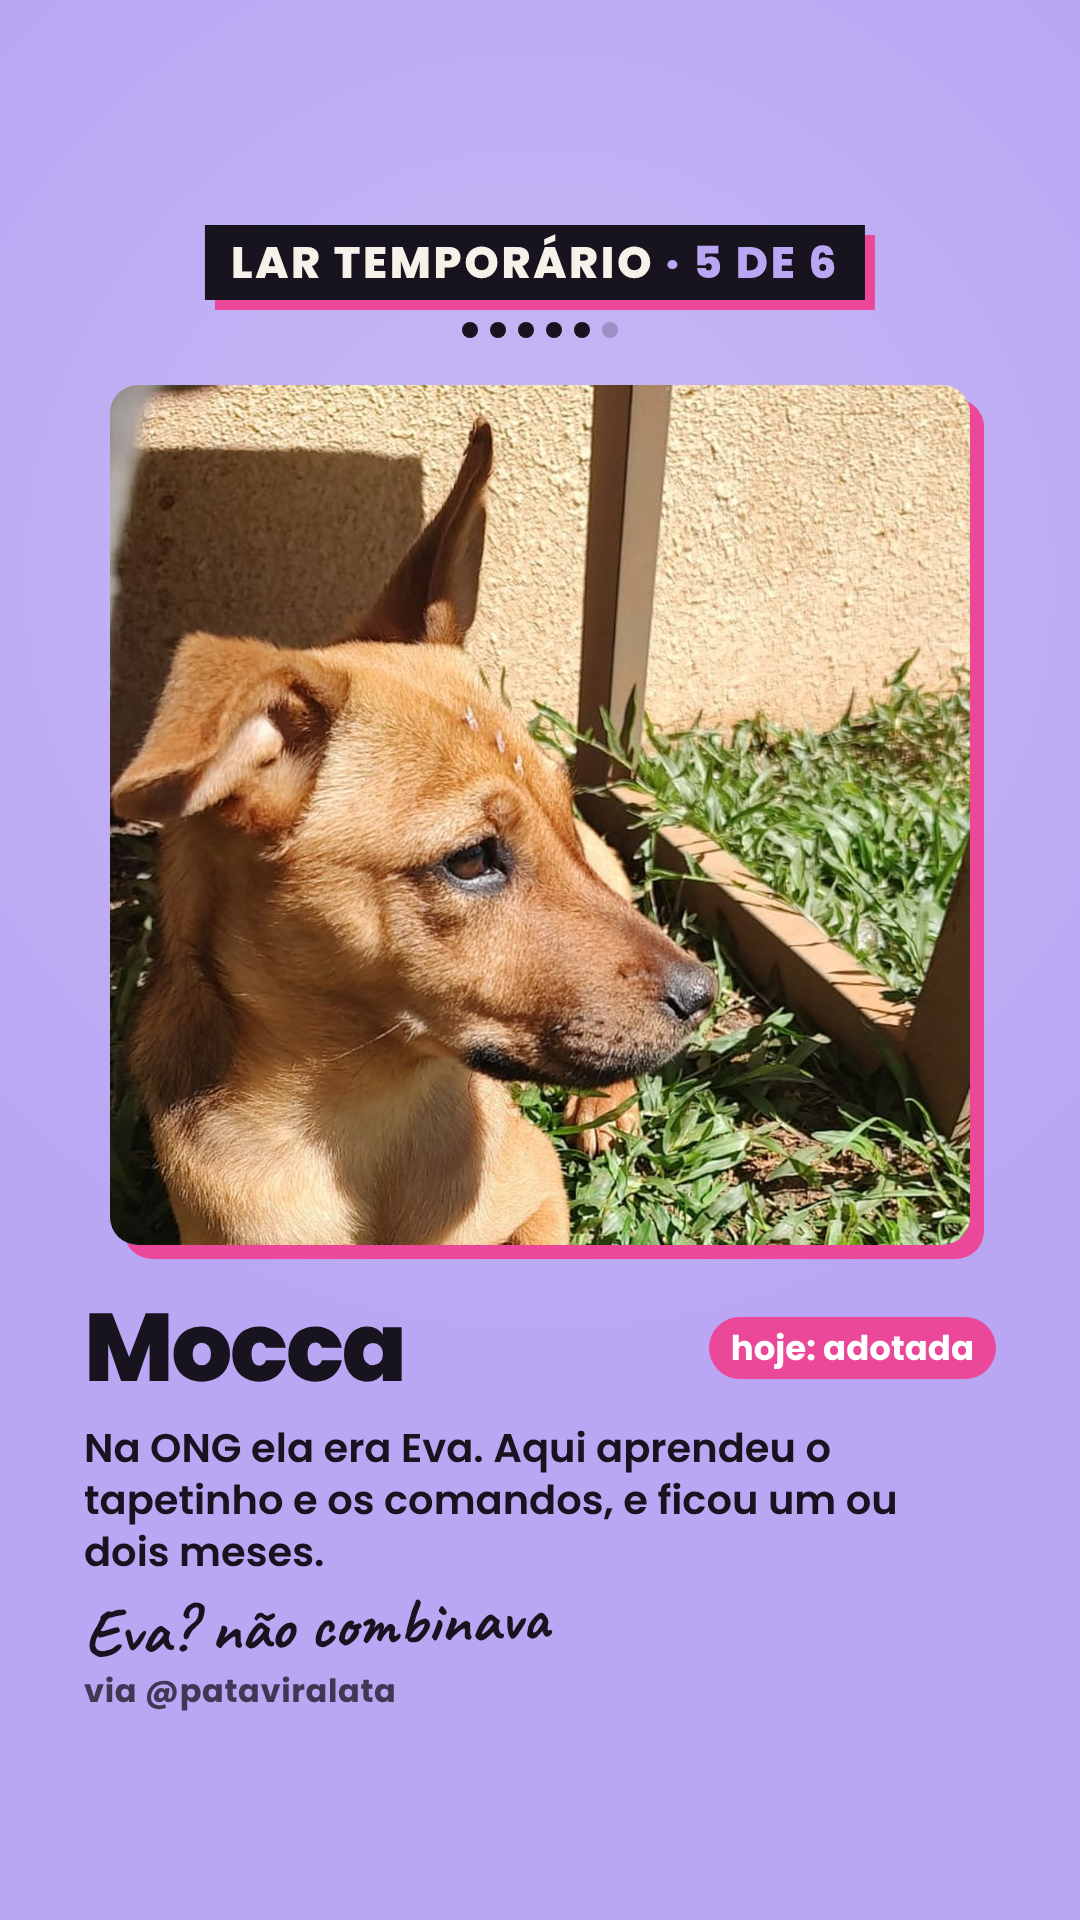
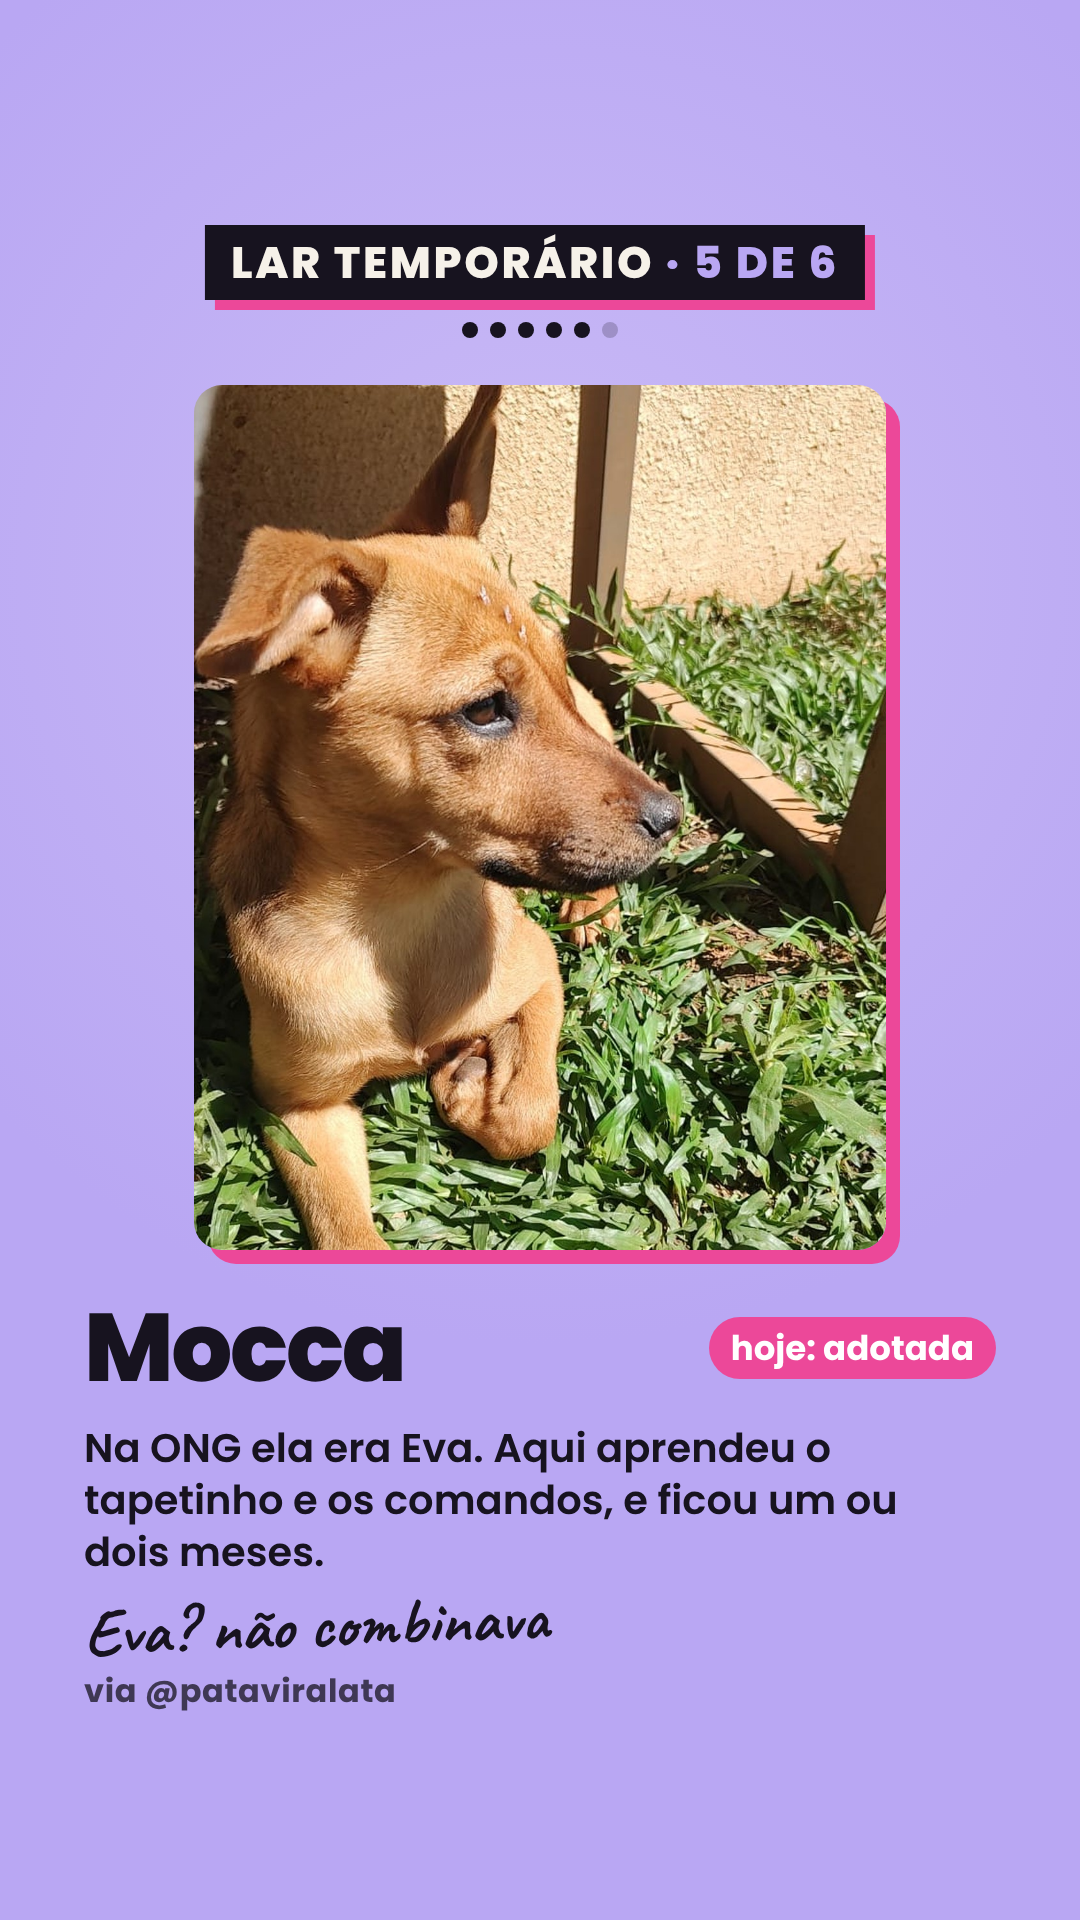
Stories dos lares temporários: "por volta de um ano", fundo do Heitor menos desfocado, Mocca com o peito e as patas, filhotes da Camélia
Claude-Session: https://claude.ai/code/session_01E463xHzMa5F2TJ5U3fhtJq

diff --git a/templates/lar-temporario/lar-temporario.html b/templates/lar-temporario/lar-temporario.html
@@ -30,6 +30,7 @@ body{background:#000;font-family:P,sans-serif;-webkit-font-smoothing:antialiased
 .dots i.on{background:var(--ink)}
 .foto{position:absolute;left:110px;top:385px;width:860px;height:860px;object-fit:cover;border-radius:28px;
   box-shadow:14px 14px 0 var(--pink)}
+.foto.mocca{left:194px;width:692px;height:865px}
 .txt{position:absolute;left:84px;right:84px;top:1300px;bottom:210px;display:flex;flex-direction:column}
 .linha{display:flex;align-items:center;justify-content:space-between;gap:20px}
 .nome{font-weight:800;font-size:96px;line-height:1;letter-spacing:-.025em}
@@ -60,7 +61,7 @@ body{background:#000;font-family:P,sans-serif;-webkit-font-smoothing:antialiased
   <img class="foto" src="img/2.jpg" alt="">
   <div class="txt">
     <div class="linha"><div class="nome">Rocco</div><div class="hoje">hoje: continua Rocco</div></div>
-    <div class="info">Tinha uns 1 ano e nunca fez nada dentro de casa. Foi adotado em menos de um mês.</div>
+    <div class="info">Tinha por volta de um ano e nunca fez nada dentro de casa. Foi adotado em menos de um mês.</div>
     <div class="zoe">ele não gostava muito do Guilherme</div>
     <div class="ong">via @pataviralata</div>
   </div>
@@ -72,7 +73,7 @@ body{background:#000;font-family:P,sans-serif;-webkit-font-smoothing:antialiased
   <img class="foto" src="img/3.jpg" alt="">
   <div class="txt">
     <div class="linha"><div class="nome">Heitor</div><div class="hoje">hoje: adotado</div></div>
-    <div class="info">Tinha uns 1 ano. Agitado, mas nunca agressivo. Foi adotado em menos de um mês.</div>
+    <div class="info">Tinha por volta de um ano. Agitado, mas nunca agressivo. Foi adotado em menos de um mês.</div>
     <div class="zoe">se ainda é Heitor, ninguém sabe</div>
     <div class="ong">via @pataviralata</div>
   </div>
@@ -83,8 +84,8 @@ body{background:#000;font-family:P,sans-serif;-webkit-font-smoothing:antialiased
   <div class="dots"><i class="on"></i><i class="on"></i><i class="on"></i><i class="on"></i><i></i><i></i></div>
   <img class="foto" src="img/4.jpg" alt="">
   <div class="txt">
-    <div class="linha"><div class="nome">Camélia</div><div class="hoje">hoje: Lorna</div></div>
-    <div class="info">A maior e a mais medrosa de todos. Ficou uns dois meses e virou irmã de gatos.</div>
+    <div class="linha"><div class="nome">Camélia</div><div class="hoje">hoje: Lorna, irmã de gatos</div></div>
+    <div class="info">A mais medrosa. Veio com os filhotes dela e outra mãezinha com filhotes: todos adotados.</div>
     <div class="zoe">a família veio conhecer num domingo… e ela já ficou</div>
     <div class="ong">via @pataviralata</div>
   </div>
@@ -93,7 +94,7 @@ body{background:#000;font-family:P,sans-serif;-webkit-font-smoothing:antialiased
 <section class="card">
   <div class="tag">Lar temporário <b>· 5 de 6</b></div>
   <div class="dots"><i class="on"></i><i class="on"></i><i class="on"></i><i class="on"></i><i class="on"></i><i></i></div>
-  <img class="foto" src="img/5.jpg" alt="">
+  <img class="foto mocca" src="img/5.jpg" alt="">
   <div class="txt">
     <div class="linha"><div class="nome">Mocca</div><div class="hoje">hoje: adotada</div></div>
     <div class="info">Na ONG ela era Eva. Aqui aprendeu o tapetinho e os comandos, e ficou um ou dois meses.</div>

diff --git a/roteiros/2-anos-adocao/plano.html b/roteiros/2-anos-adocao/plano.html
@@ -224,7 +224,7 @@ tr.star td{background:#FDF0F7}
     <div class="cc"><span class="n">1</span><div class="t">Theodor, o TT</div><p class="small" style="margin:4px 0 0">"O primeiro chegou bem filhotinho e aprendeu tudo no tapetinho. Ficou menos de um mês. Hoje ele é o Churros."</p><div class="h">Churros!</div><div class="f">@pataviralata · cortar o pé no canto da foto</div></div>
     <div class="cc"><span class="n">2</span><div class="t">Rocco</div><p class="small" style="margin:4px 0 0">"Tinha uns 1 ano. Nunca fez nada dentro de casa. Foi adotado em menos de um mês e continuou Rocco."</p><div class="h">ele não gostava muito do Guilherme</div><div class="f">@pataviralata</div></div>
     <div class="cc"><span class="n">3</span><div class="t">Heitor</div><p class="small" style="margin:4px 0 0">"Tinha uns 1 ano. Agitado, mas nunca agressivo. Foi adotado em menos de um mês."</p><div class="h">se ainda é Heitor, ninguém sabe</div><div class="f">@pataviralata · desfocar a logo do pet shop no fundo</div></div>
-    <div class="cc"><span class="n">4</span><div class="t">Camélia</div><p class="small" style="margin:4px 0 0">"A maior e a mais medrosa. Foi resgatada com outra cadela e um filhote. Ficou uns 2 meses. Hoje é a Lorna, irmã de gatos."</p><div class="h">a única que não dormiu na cama: a família veio num domingo e ela já ficou</div><div class="f">@pataviralata · marcar a família, se autorizarem</div></div>
+    <div class="cc"><span class="n">4</span><div class="t">Camélia</div><p class="small" style="margin:4px 0 0">"A maior e a mais medrosa. Veio com os filhotes dela e outra mãezinha com filhotes: todos adotados. Ficou uns 2 meses. Hoje é a Lorna, irmã de gatos."</p><div class="h">a única que não dormiu na cama: a família veio num domingo e ela já ficou</div><div class="f">@pataviralata · marcar a família, se autorizarem</div></div>
     <div class="cc"><span class="n">5</span><div class="t">Mocca</div><p class="small" style="margin:4px 0 0">"Na ONG ela era Eva. Aqui virou Mocca. Aprendeu o tapetinho e os comandos, e ficou um ou dois meses."</p><div class="h">Eva? não combinava</div><div class="f">@pataviralata</div></div>
     <div class="cc"><span class="n">6</span><div class="t">Mia</div><p class="small" style="margin:4px 0 0">"Chegou com uns 45 dias, a primeira no apartamento novo. Esperta: aprendeu os comandos rapidinho. Hoje é a Tequila."</p><div class="h">e depois dela… cheguei eu</div><div class="f">@projetosocialventosdosul · marcar a família, se autorizarem</div></div>
   </div>

diff --git a/templates/lar-temporario/fotos.py b/templates/lar-temporario/fotos.py
@@ -1,7 +1,8 @@
-"""Fotos dos 6 lares temporários (drive/lares temporários/<Nome> - N.jpg) → img/<n>.jpg, quadradas, 1080 px.
+"""Fotos dos 6 lares temporários (drive/lares temporários/<Nome> - N.jpg) → img/<n>.jpg, 1080 px de largura.
 
 - Theodor: o recorte deixa de fora o pé de chinelo no canto de baixo.
-- Heitor: o fundo (parede com a logo de um pet shop) é desfocado com uma máscara do rembg; o cão fica intacto.
+- Heitor: o fundo é levemente desfocado com uma máscara do rembg (as logos podem aparecer: o pet shop é parceiro
+  da @pataviralata, ok da Isabela em 14/11); o cão fica intacto.
 Nada é reconstruído: só recorte, redimensionamento e o desfoque do fundo.
 
 Uso (venv com pillow, rembg[cpu] e opencv-python-headless):
@@ -14,14 +15,14 @@ RAIZ = Path(__file__).resolve().parents[2]
 SRC = RAIZ / 'drive' / 'lares temporários'
 OUT = Path(__file__).resolve().parent / 'img'
 
-# arquivo, (x, y, lado) do quadrado no original
+# arquivo, (x, y, largura, altura) do recorte no original (quadrado, menos a Mocca, em 4:5 para mostrar o peito e as patas)
 CORTES = {
-    1: ('Theodor - 1.jpg', (500, 1050, 1750)),
-    2: ('Rocco - 2.jpg', (0, 330, 1200)),
-    3: ('Heitor - 3.jpg', (0, 280, 1200)),
-    4: ('Camélia - 4.jpg', (0, 130, 960)),
-    5: ('Mocca - 5.JPG', (0, 40, 720)),
-    6: ('Mia -6.JPG', (0, 1000, 2160)),
+    1: ('Theodor - 1.jpg', (500, 1050, 1750, 1750)),
+    2: ('Rocco - 2.jpg', (0, 330, 1200, 1200)),
+    3: ('Heitor - 3.jpg', (0, 280, 1200, 1200)),
+    4: ('Camélia - 4.jpg', (0, 130, 960, 960)),
+    5: ('Mocca - 5.JPG', (0, 100, 720, 900)),
+    6: ('Mia -6.JPG', (0, 1000, 2160, 2160)),
 }
 
 
@@ -29,14 +30,14 @@ def heitor_sem_logo(im):
     from rembg import new_session, remove
     mask = remove(im, session=new_session('u2net'), only_mask=True)
     mask = mask.filter(ImageFilter.MaxFilter(9)).filter(ImageFilter.GaussianBlur(6))  # folga na borda do pelo
-    fundo = im.filter(ImageFilter.GaussianBlur(38))
+    fundo = im.filter(ImageFilter.GaussianBlur(9))
     return Image.composite(im, fundo, mask)
 
 
-for n, (nome, (x, y, lado)) in CORTES.items():
+for n, (nome, (x, y, w, h)) in CORTES.items():
     im = ImageOps.exif_transpose(Image.open(SRC / nome)).convert("RGB")
     if n == 3:
         im = heitor_sem_logo(im)
-    im = im.crop((x, y, x + lado, y + lado)).resize((1080, 1080), Image.LANCZOS)
+    im = im.crop((x, y, x + w, y + h)).resize((1080, round(1080 * h / w)), Image.LANCZOS)
     im.save(OUT / f'{n}.jpg', quality=90)
     print(OUT / f'{n}.jpg')

diff --git a/roteiros/2-anos-adocao/plano.md b/roteiros/2-anos-adocao/plano.md
@@ -35,7 +35,7 @@ eles dormiam na cama (só a Camélia não: a família veio conhecê-la num domin
 1. **Theodor ("TT")** · @pataviralata · resgatado bem filhotinho, adaptação com tapetinho; menos de 1 mês; adotado, hoje **Churros**. Sem contato com a família.
 2. **Rocco** · @pataviralata · ~1 ano; não fazia as necessidades dentro de casa; não gostava muito do Guilherme; menos de 1 mês; adotado, manteve o nome. Sem contato.
 3. **Heitor** · @pataviralata · ~1 ano; agitado, mas não agressivo; menos de 1 mês; adotado (não se sabe se manteve o nome). Sem contato.
-4. **Camélia** · @pataviralata · ~2 anos; resgatada com outra cadela e um filhote; medrosa; a de maior porte; fazia as necessidades fora; ~2 meses (a kitnet provavelmente foi o único motivo de não ficarem com ela); adotada, virou **Lorna**, irmã de gatos. Contato com a família: pedir autorização para marcar.
+4. **Camélia** · @pataviralata · ~2 anos; resgatada com os filhotes dela e com outra mãe com filhotes (todos adotados, confirmado no Instagram da ONG); medrosa; a de maior porte; fazia as necessidades fora; ~2 meses (a kitnet provavelmente foi o único motivo de não ficarem com ela); adotada, virou **Lorna**, irmã de gatos. Contato com a família: pedir autorização para marcar.
 5. **Mocca** · @pataviralata · 6 meses a 1 ano; na ONG era "Eva"; aprendeu tapetinho e comandos; 1 a 2 meses; adotada. Sem contato.
 6. **Mia** · @projetosocialventosdosul · ~45 dias; agitada e inteligente, aprendeu comandos rápido; ~1 mês; adotada, virou **Tequila**. Contato com a família: pedir autorização para marcar.
 
